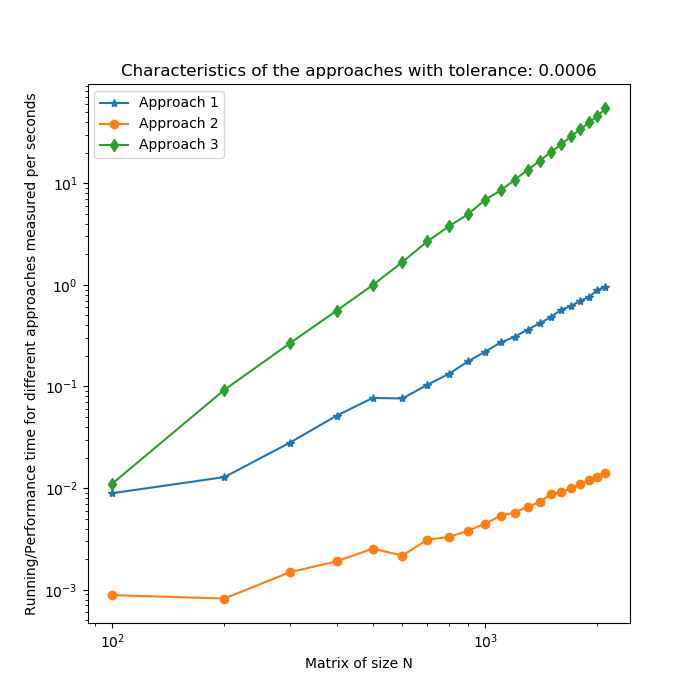
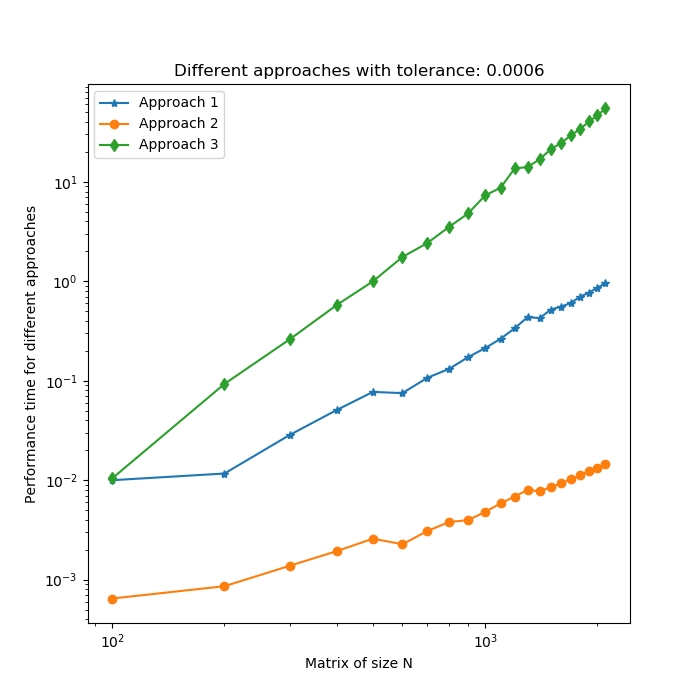
Final version of A2

diff --git a/A2.py b/A2.py
@@ -5,16 +5,13 @@ import matplotlib.pyplot as plt
 import time
 import random
 
-ITERATIONS_UPPER_LIMIT = 10000
+ITERATIONS_LIMIT = 10000
+##21 different size of matrix 
 MATRIX_SIZE_N = [x for x in range(100, 2200, 100)]
-DefaultTol = 10**-6  # Default value
-converge = False
+DefaultTol = 10**-6  # Default value for tolerance
 #Take different time
 rows, cols = (3,1)
 Time = [[0 for i in range(cols)] for j in range(rows)] 
-
-
-# Approach 1 – The Power Method with For Loops
 
 def VectorProduct(matrix, vector):
     temp = 0
@@ -64,106 +61,101 @@ def VectorSubtract(vector1, vector2):
 
 
 def Print(strings):
-    print('-------------------------------------------------------------------')
+    print('*******************************************************************')
     print(strings)
-    print('-------------------------------------------------------------------')
+    print('*******************************************************************')
 
-def Approach1(a,eigenvalue,eigenvector): 
-    eigenvector = [[1] for i in range(len(a))]  # Initial value of eigenvector
+def Approach1(a,Approch1_eigenvalue,Approch1_eigenvector): 
+    Approch1_eigenvector = [[1] for i in range(len(a))]  # Initial value of Approch1_eigenvector
     time1 = time.time()
     iterations_counter = 0
     while True:
-        dot_product = VectorProduct(a, eigenvector)
-        eigenvalue = L2Norm(dot_product)
-        new_eigenvector = ScalarDivision(dot_product, eigenvalue)
-        difference = L2Norm(VectorSubtract(eigenvector, new_eigenvector))
-        eigenvector = new_eigenvector
+        dot_product = VectorProduct(a, Approch1_eigenvector)
+        Approch1_eigenvalue = L2Norm(dot_product)
+        new_eigenvector = ScalarDivision(dot_product, Approch1_eigenvalue)
+        difference = L2Norm(VectorSubtract(Approch1_eigenvector, new_eigenvector))
+        Approch1_eigenvector = new_eigenvector
 
         iterations_counter += 1
         if difference < Tolerance:
             time2 = time.time()
-            Print(f'Approach 1:\n'
-                f'Number of elements in matrix:{MATRIX_SIZE_N[i]}\n'
+            Print(f'Number of elements in matrix:{MATRIX_SIZE_N[i]}\n'
                         f'Number of iterations with approach 1: {iterations_counter}\n'
                         f'The l2 norm of difference between last two successive eigenvectors is: {difference}\n'
-                        f'Eigenvalue is: {eigenvalue}\n'
+                        f'Approch1_eigenvalue is: {Approch1_eigenvalue}\n'
                         f"Running time with 'Approach 1' is:{time2-time1} seconds!")
             Time[0].append(time2-time1)
             break
-        elif iterations_counter > ITERATIONS_UPPER_LIMIT:
+        elif iterations_counter > ITERATIONS_LIMIT:
             Print(
                 f'Number of elements in matrix:{MATRIX_SIZE_N[i]}\n'
-                f"The power method did not converge after:{ITERATIONS_UPPER_LIMIT} iterations! in 'Approach 1'\n"
+                f"The power method did not converge after:{ITERATIONS_LIMIT} iterations! in 'Approach 1'\n"
                 f"Running time with 'Approach 1' was:{time2-time1} seconds!")
             Time[0].append(math.nan)
             break
 
-def Approach2(a_np,eigenvalue_np,eigenvector_np):
-    time3 = time.time()
+def Approach2(a_np,Approch2_eigenvalue,Approch2_eigenvector):
+    time1 = time.time()
     iterations_counter = 0
     while True:
-        dot_product_np = np.dot(a_np, eigenvector_np)
-        eigenvalue_np = L2Norm(dot_product_np)
-        new_eigenvector_np = dot_product_np / eigenvalue_np
-        difference_np = L2Norm(eigenvector_np - new_eigenvector_np)
-        eigenvector_np = new_eigenvector_np
+        dot_product_np = np.dot(a_np, Approch2_eigenvector)
+        Approch2_eigenvalue = L2Norm(dot_product_np)
+        new_eigenvector_np = dot_product_np / Approch2_eigenvalue
+        difference_np = L2Norm(Approch2_eigenvector - new_eigenvector_np)
+        Approch2_eigenvector = new_eigenvector_np
         iterations_counter += 1
         if difference_np < Tolerance:
             converge = True
-            print(converge)
-            time4 = time.time()
-            Print(f'Approach 2:\n'
-                f'Number of elements in matrix:{MATRIX_SIZE_N[i]}\n'
+            time2 = time.time()
+            Print(f'Number of elements in matrix:{MATRIX_SIZE_N[i]}\n'
                         f'Number of iterations with approach 2: {iterations_counter}\n'
                         f'The l2 norm of difference between last two successive eigenvectors is: {difference_np}\n'
-                        f'Eigenvalue is: {eigenvalue_np}\n'
-                        f"Running time with 'Approach 2' is:{time4-time3} seconds!")
-            Time[1].append(time4-time3)
+                        f'Approch1_eigenvalue is: {Approch2_eigenvalue}\n'
+                        f"Running time with 'Approach 2' is:{time2-time1} seconds!")
+            Time[1].append(time2-time1)
             break
-        elif iterations_counter > ITERATIONS_UPPER_LIMIT:
-            time4 = time.time()
+        elif iterations_counter > ITERATIONS_LIMIT:
+            time2 = time.time()
             Print(
                 f'Number of elements in matrix:{MATRIX_SIZE_N[i]}\n'
-                f"The power method did not converge after:{ITERATIONS_UPPER_LIMIT} iterations! in 'Approach 2'\n"
-                f"Running time with 'Approach 2' was:{time4-time3} seconds!")
+                f"The power method did not converge after:{ITERATIONS_LIMIT} iterations! in 'Approach 2'\n"
+                f"Running time with 'Approach 2' was:{time2-time1} seconds!")
             Time[1].append(math.nan)
             break
     return converge
-def Approach3(converge,eigenvalue,eigenvalue_np,only_real_eigenvalues,only_real_eigenvectors):
-    time5 = time.time()
+
+def Approach3(converge,Approch1_eigenvalue,Approch2_eigenvalue,Approch3_eigenvalue,Approch3_eigenvector):
+    time1 = time.time()
     eig_values, eig_vects = np.linalg.eig(a_np)
-    time6 = time.time()
+    time2 = time.time()
 
     # Returns a bool array, where True if input element is real with no imaginary part
     real_eigenvalues_bo = np.isreal(eig_values)
     real_eigenvectors_bo = np.isreal(eig_vects)
 
-    only_real_eigenvalues = eig_values[real_eigenvalues_bo]
-    only_real_eigenvectors = eig_vects[real_eigenvectors_bo]
-    print(converge)
+    Approch3_eigenvalue = eig_values[real_eigenvalues_bo]
+    Approch3_eigenvector = eig_vects[real_eigenvectors_bo]
     if converge:
 
         eigenvalue_places = np.where(
-            (np.round(eig_values, 4)) == np.round(eigenvalue_np, 4))
-        eigenvectors_places = np.where(
-            (np.round(eig_vects, 4)) == np.round(eigenvector_np, 4))
+            (np.round(eig_values, 4)) == np.round(Approch2_eigenvalue, 4))
 
-        Print(f'Approach 3:\n'
-                    f'Number of elements in matrix:{MATRIX_SIZE_N[i]}\n'
-                    f'The place of biggest eigenvalue:{np.max(only_real_eigenvalues)} in '
+        Print(      f'Number of elements in matrix:{MATRIX_SIZE_N[i]}\n'
+                    f'The place of biggest Approch1_eigenvalue:{np.max(Approch3_eigenvalue)} in '
                     f'main array result is:{eigenvalue_places[0]}\n'
-                    f'Running time with Approach 3 was:{time6-time5} seconds!')
-        Time[2].append(time6-time5)
+                    f'Running time with Approach 3 was:{time2-time1} seconds!')
+        Time[2].append(time2-time1)
     else:
         Print(f'Number of elements in matrix:{MATRIX_SIZE_N[i]}\n'
-                    f'Last calculated eigenvalue with Approach 1: {eigenvalue}\n'
-                    f'Last calculated eigenvalue with Approach 2: {eigenvalue_np}\n'
-                    f'Real eigenvalues with Approach 3 are:\n{only_real_eigenvalues}\n'
-                    # f'Real eigenvectors with Approach 3 are:\n{only_real_eigenvectors}\n'
-                    f"Running time with 'Approach 3' was:{time6-time5} seconds!\n"
+                    f'Last calculated Approch1_eigenvalue with Approach 1: {Approch1_eigenvalue}\n'
+                    f'Last calculated Approch1_eigenvalue with Approach 2: {Approch2_eigenvalue}\n'
+                    f'Real eigenvalues with Approach 3 are:\n{Approch3_eigenvalue}\n'
+                    f"Running time with 'Approach 3' was:{time2-time1} seconds!\n"
                     f'The power method did not converged though!')
         Time[2].append(math.nan)
-# User input for tolerance
+
+
+# Getting user input for tolerance
 while True:
     try:
         Tolerance = float(input('Enter tolerance in format 0.00...1='))
@@ -175,42 +167,49 @@ while True:
         break
 
 ###Eigenvalues & Eigenvectors for all aprooaches initlize with zero
-eigenvalue=eigenvalue_np=only_real_eigenvalues=0
-eigenvector=eigenvector_np=only_real_eigenvectors=0
+Approch1_eigenvalue=Approch2_eigenvalue=Approch3_eigenvalue=0
+Approch1_eigenvector=Approch2_eigenvector=Approch3_eigenvector=0
+converge = False
 #Approach1
 
 for i in range(len(MATRIX_SIZE_N)):
+    ##Initial value of eigenvector
     a = [[random.random() for i in range(MATRIX_SIZE_N[i])]
          for j in range(MATRIX_SIZE_N[i])]
-    Approach1(a,eigenvalue,eigenvector)
-    
+    print('Approach 1')     
+    Approach1(a,Approch1_eigenvalue,Approch1_eigenvector)  
 # ------------------------------------------------------------------------------------------------------
 # Approach 2 – The Power Method with NumPy Functions
 # To convert existing data to ndarray type
+    print('Approach 2')
     a_np = np.asarray(a)
-    eigenvector_np = np.ones((len(a_np), 1))
-    converge=Approach2(a_np,eigenvalue_np,eigenvector_np)
+    Approch2_eigenvector = np.ones((len(a_np), 1))
+    converge=Approach2(a_np,Approch2_eigenvalue,Approch2_eigenvector)
     
 ###Just create the function to send the data 
 # ------------------------------------------------------------------------------------------------------
 # Approach 3 – NumPy Implementation
-    Approach3(converge,eigenvalue,eigenvalue_np,only_real_eigenvalues,only_real_eigenvectors)
-Time[0].pop(0)
-Time[1].pop(0)
-Time[2].pop(0)      
+    print('Approach 3')
+    Approach3(converge,Approch1_eigenvalue,Approch2_eigenvalue,Approch3_eigenvalue,Approch3_eigenvector)
+   
 # ------------------------------------------------------------------------------------------------------
 #  Performance characteristics of the approaches and result plotting
+##popout the starting values
+Time[0].pop(0)
+Time[1].pop(0)
+Time[2].pop(0)
+
 plt.subplots(1, figsize=(7, 7))
 plt.loglog(MATRIX_SIZE_N, Time[0], '-*')
 plt.loglog(MATRIX_SIZE_N, Time[1], '-o')
 plt.loglog(MATRIX_SIZE_N, Time[2], '-d')
 
 plt.title(
-    f"Characteristics of the approaches with tolerance: {Tolerance}")
-plt.ylabel('Running/Performance time for different approaches measured per seconds')
-plt.xlabel('Matrix of size N')
+    f"Different approaches with tolerance: {Tolerance}")
+plt.ylabel('Performance time for different approaches')
+plt.xlabel('Size of a Matrix N')
 plt.legend(['Approach 1', 'Approach 2', 'Approach 3'])
-plt.savefig("Performance_of_approaches.png")
+plt.savefig("A2.png")
 
 plt.show()
 plt.clf()
